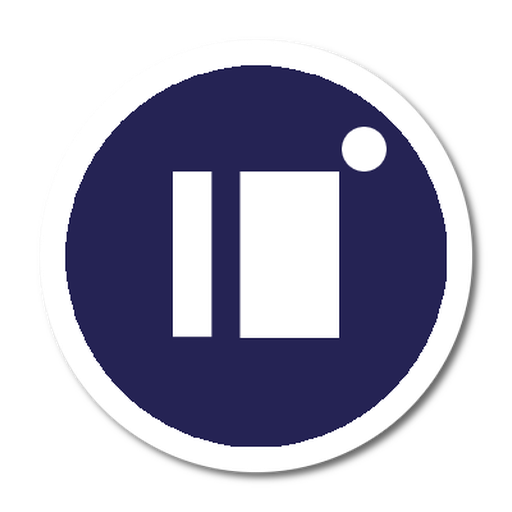
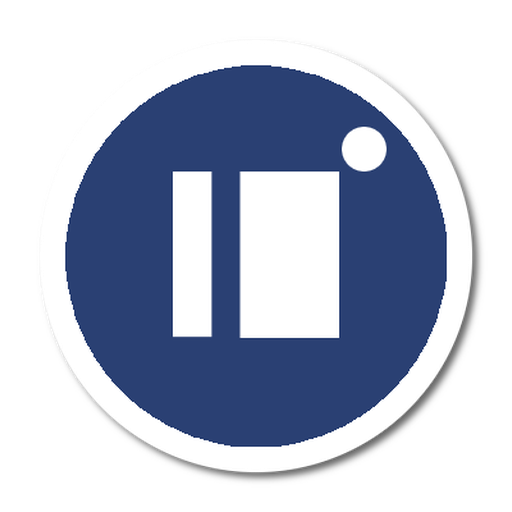
modify app color theme.

diff --git a/app/containers/ResultList.js b/app/containers/ResultList.js
@@ -27,7 +27,7 @@ class ResultList extends Component {
   static navigationOptions = ({ navigation }) => ({
     title: 'E-Book検索結果',
     headerStyle: {
-      backgroundColor: '#211E55',
+      backgroundColor: '#2A4073',
     },
     headerTitleStyle: {
       color: '#fff',
@@ -93,7 +93,10 @@ class ResultList extends Component {
   render() {
     return (
       <View style={styles.container}>
-        {this.state.searching ? <View style={styles.overlay}><Progress.Circle size={60} indeterminate={true} /></View>: null}
+        {this.state.searching ? <View style={styles.overlay}><Progress.Circle size={50}
+                                                                              indeterminate={true}
+                                                                              color={"#2A4073"}
+                                                                              borderWidth={4}/></View>: null}
         <ScrollView>
           {!this.state.searching && this.state.items.map((item) => {
             return (

diff --git a/app/containers/CodeReader.js b/app/containers/CodeReader.js
@@ -15,7 +15,7 @@ class CodeReader extends Component {
   static navigationOptions = ({ navigation }) => ({
     title: 'ISBNバーコード読み取り',
     headerStyle: {
-      backgroundColor: '#211E55',
+      backgroundColor: '#2A4073',
     },
     headerTitleStyle: {
       color: '#fff',

diff --git a/app/containers/AboutApp.js b/app/containers/AboutApp.js
@@ -12,7 +12,7 @@ class AboutApp extends Component {
   static navigationOptions = ({ navigation }) => ({
     title: 'このアプリについて',
     headerStyle: {
-      backgroundColor: '#211E55',
+      backgroundColor: '#2A4073',
     },
     headerTitleStyle: {
       color: '#fff',
